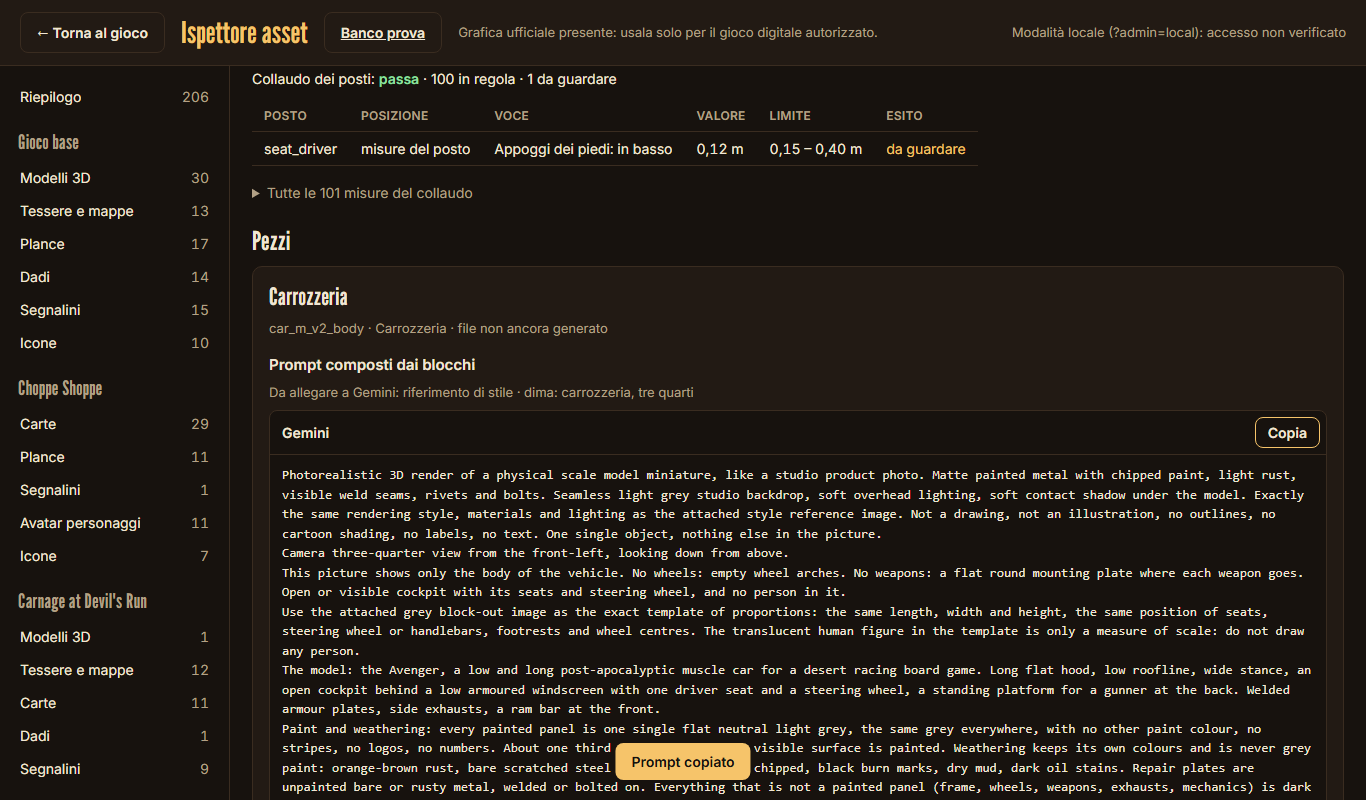
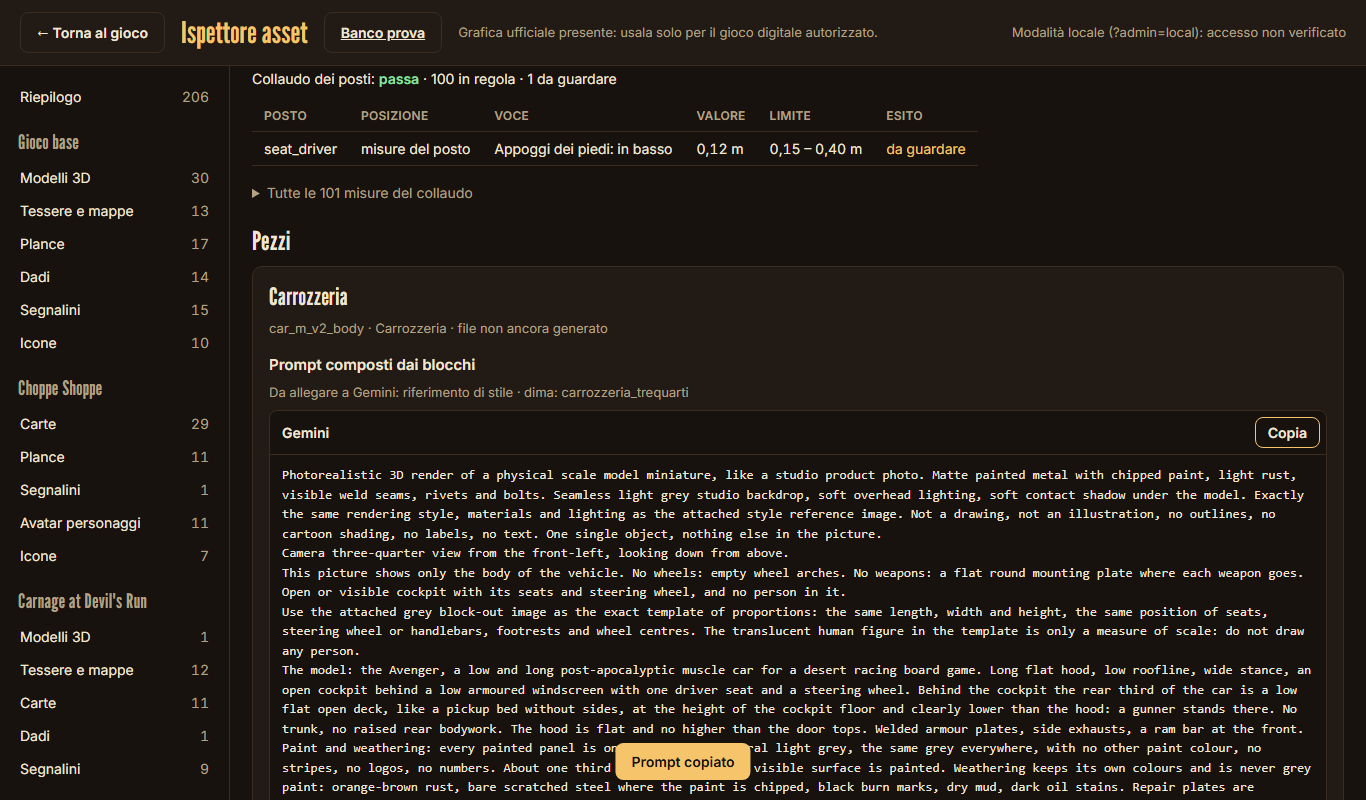
feat: riquadro "Cosa fare adesso" nella scheda di produzione, prompt per tipo di pezzo e riferimento di stile
Ogni scheda con la dima mostra i passi in ordine: scaricare le viste della dima e il riferimento di stile, poi per ogni pezzo il prompt di Gemini con gli allegati, il controllo contro la dima e il prompt di Meshy con le impostazioni.
Armi, avantreno e telaio hanno camera di lato e testo della dima propri; ruote e figure una coda di Meshy propria; la dima produce la vista di lato dell'arma e dell'avantreno.
La carrozzeria dell'Avenger chiede un pianale posteriore basso: il primo concept aveva la coda alta circa 1,05 m.

Design: design/art/modelli-strutturati.md §17, §20

Changed region(s): [[0.1845, 0.8438, 0.9531, 1.0], [0.4612, 0.4688, 0.5227, 0.5]]

diff --git a/src/admin/produzione-view.ts b/src/admin/produzione-view.ts
@@ -2,7 +2,7 @@
 // list of the models with the step each has reached, the sheet of one model with its prompts ready to
 // copy, the rules with their measures read from data/trv/modelli/regole.json, and the specification
 // itself laid out. Markup only: src/admin/admin.ts puts it on the page and answers the clicks
-// (`data-prod` opens a page, `data-copy` copies the prompt beside it, `data-glb` shows a model in 3D).
+// (`data-prod` opens a page, `data-copy` copies the prompt beside it, or its own text, `data-glb` shows a model in 3D).
 
 import DOC from '../../design/art/modelli-strutturati.md?raw';
 import { esc } from '../core/markup';
@@ -78,6 +78,37 @@ function pieceHtml(p: Piece): string {
     ${p.nota ? `<p>${esc(p.nota)}</p>` : ''}${composed}${p.usato ? usedHtml(p) : ''}${tries}</section>`;
 }
 
+/**
+ * What the user does now, in order: the pictures of the template once, then for every piece not made yet
+ * the Gemini prompt with what to attach, the look at the picture, the Meshy prompt with its settings.
+ * Nothing for a sheet with no template or with every piece made.
+ */
+const STYLE_FILES = import.meta.glob<string>('/assets/*/modelli/*.{jpg,png,webp}', { eager: true, query: '?url', import: 'default' });
+/** The style reference as a download, or its name when the file is missing. */
+function styleLink(): string {
+  const path = R.blocchi.riferimento_stile, url = path ? STYLE_FILES[`/${path}`] : undefined;
+  return url ? `<a class="btn" href="${esc(url)}" download="${esc(path!.split('/').pop()!)}">Scarica il riferimento di stile</a>` : '<span class="bad">riferimento di stile non ancora nel progetto</span>';
+}
+
+function todoHtml(s: Sheet): string {
+  const pieces = s.pezzi.filter(p => !p.file).map(p => ({ p, c: compose(p) })).filter(x => x.c);
+  if (!s.dima || !pieces.length) return '';
+  const png = (view: string): string => `<code>${esc(`${s.id}_dima_${view}.png`)}</code>`;
+  const attach = (a: string): string => a.startsWith('dima: ') ? png(a.slice(6)) : a === 'riferimento di stile' ? `<code>${esc(R.blocchi.riferimento_stile?.split('/').pop() ?? 'riferimento di stile')}</code>` : esc(a);
+  const copy = (label: string, text: string): string => `<button class="btn" data-copy="${esc(text)}">${label}</button>`;
+  const rows = pieces.map(({ p, c }) => {
+    const view = p.tipo === 'carrozzeria' || p.tipo === 'telaio' ? 'carrozzeria_lato' : c!.allegati.find(a => a.startsWith('dima: '))?.slice(6);
+    return `<li><strong>${esc(p.nome)}</strong><ol>
+      <li>${copy('Copia il prompt di Gemini', c!.gemini)} Incollalo in Gemini${c!.allegati.length ? ` e allega ${c!.allegati.map(attach).join(' e ')}` : ''}.</li>
+      ${view ? `<li>Guarda l'immagine accanto a ${png(view)}: stesse proporzioni e stesse altezze. Se non torna, rigenera in Gemini prima di andare avanti.</li>` : ''}
+      <li>${copy('Copia il prompt di Meshy', c!.meshy)} In Meshy: ${esc(R.blocchi.meshy.modo)}, con l'immagine di Gemini. Impostazioni: ${settings(c!.impostazioni)}.</li>
+      <li>Salva il GLB e di' a Claude dov'è: misure, montaggio e messa in gioco li fa lui.</li></ol></li>`;
+  }).join('');
+  return `<section class="todo" data-dima="${esc(s.id)}"><h3>Cosa fare adesso</h3><ol>
+    <li><strong>Dima</strong><ol><li><button class="btn" data-dima-png>Scarica le viste della dima (PNG)</button> Una volta sola: finiscono nella cartella dei download.</li><li>${styleLink()} Una volta sola: è l'immagine da allegare a ogni prompt di Gemini.</li></ol></li>
+    ${rows}</ol><p class="set">Un pezzo alla volta, tutti nella stessa conversazione di Gemini. Il resto della pagina è da consultare, non da usare.</p></section>`;
+}
+
 /** The template of a model: the switches of its 3D view, the pictures to download and the check of its seats. */
 function dimaHtml(s: Sheet): string {
   const dima = s.dima!, rows = checkDima(dima, classes()[s.classe], R);
@@ -126,6 +157,7 @@ function sheetHtml(s: Sheet): string {
     <p class="psum">${badge(s.stato.esito)} &nbsp; ${esc(R.regimi[s.regime] ?? s.regime)} &nbsp;·&nbsp; dal ${esc(s.stato.dal)}</p>
     <ol class="steps">${steps}</ol>
     <p>${esc(s.stato.nota)}</p>
+    ${todoHtml(s)}
     ${bad.length ? `<ul class="legend bad">${bad.map(b => `<li>${esc(b)}</li>`).join('')}</ul>` : ''}
     <h3 class="sub">Misure</h3>${table(['', ''], [...target, ...today], 'kv')}
     ${seats}
@@ -152,7 +184,10 @@ function rulesHtml(): string {
     return [esc(k.replace('_', ' ')), `≤ ${num(x.triangoli)}`, num(x.texture), `≤ ${x.materiali}`];
   });
   const blocks: [string, string][] = [['Stile (tutti i pezzi)', b.stile], ['Camera', b.camera], ['Colore e usura (pezzi tinti)', b.colore], ['Dima (pezzi con posti)', b.dima],
-    ...Object.entries(b.tipo).map(([k, v]): [string, string] => [`Tipo di pezzo: ${R.tipi[k] ?? k}`, v]), ['Meshy: coda di ogni testo', b.meshy.coda]];
+    ...Object.entries(b.tipo).map(([k, v]): [string, string] => [`Tipo di pezzo: ${R.tipi[k] ?? k}`, v]),
+    ...Object.entries(b.camera_per_tipo ?? {}).map(([k, v]): [string, string] => [`Camera: ${R.tipi[k] ?? k}`, v]),
+    ...Object.entries(b.dima_per_tipo ?? {}).map(([k, v]): [string, string] => [`Dima: ${R.tipi[k] ?? k}`, v]),
+    ['Meshy: coda di ogni testo', b.meshy.coda], ...Object.entries(b.meshy.coda_per_tipo ?? {}).map(([k, v]): [string, string] => [`Meshy, coda: ${R.tipi[k] ?? k}`, v])];
   const meshy = Object.entries(b.meshy.impostazioni).filter(([, v]) => typeof v === 'object').map(([k, v]) => [esc(R.tipi[k] ?? k), settings(v as Record<string, string | number>)]);
   return `<div class="cat-head"><h2>Regole e misure</h2></div>
     <p class="cat-note">I numeri di questa pagina sono letti da <code>data/trv/modelli/regole.json</code>, lo stesso file che usano gli script e i test. La spiegazione di ogni regola è nella specifica completa.</p>

diff --git a/src/view/dima3d.ts b/src/view/dima3d.ts
@@ -23,6 +23,8 @@ export interface DimaLook {
   ground: boolean;
   /** Which position every seat is shown in: 0 the neutral one, then its extremes in order. */
   position: number;
+  /** Only the boxes of the pieces whose name starts so (`arma`, `avantreno`), with who stands or rides at them. */
+  only?: string;
 }
 /** Everything on, the figures solid, the neutral position. */
 export const DIMA_WHOLE: DimaLook = { wheels: true, weapons: true, figure: 'solid', marks: true, ground: true, position: 0 };
@@ -78,7 +80,7 @@ export function buildDima(dima: Dima, r: Rules, look: DimaLook = DIMA_WHOLE): TH
   const flat = (color: number, more: THREE.MeshStandardMaterialParameters = {}): THREE.MeshStandardMaterial => new THREE.MeshStandardMaterial({ color, roughness: 0.9, ...more });
   const mats = { pieno: flat(GREY.body), sedile: flat(GREY.seat), comando: flat(GREY.control), vetro: flat(0xbfd6de, { transparent: true, opacity: 0.35, depthWrite: false }), weapon: flat(GREY.weapon) };
   for (const b of dima.volumi) {
-    if (b.pezzo && !look.weapons) continue;
+    if (look.only ? !b.pezzo?.startsWith(look.only) : b.pezzo && !look.weapons) continue;
     const size = [0, 1, 2].map(i => Math.abs(b.a[i] - b.da[i]));
     const mesh = new THREE.Mesh(new THREE.BoxGeometry(size[0], size[1], size[2]), b.pezzo ? mats.weapon : mats[b.uso ?? 'pieno']);
     mesh.position.set((b.da[0] + b.a[0]) / 2, (b.da[1] + b.a[1]) / 2, (b.da[2] + b.a[2]) / 2);
@@ -99,6 +101,7 @@ export function buildDima(dima: Dima, r: Rules, look: DimaLook = DIMA_WHOLE): TH
   }
   const dot = (p: number[], color: number): void => { const s = new THREE.Mesh(new THREE.SphereGeometry(0.035, 12, 8), new THREE.MeshBasicMaterial({ color })); s.position.set(p[0], p[1], p[2]); g.add(s); };
   for (const seat of dima.posti) {
+    if (look.only && seat.posa === 'sit') continue; // a piece alone: only who holds it
     const all = positions(seat), pos = all[Math.min(look.position, all.length - 1)];
     if (look.figure !== 'none') g.add(figureMesh(poseFigure(seat, pos.prese, r), r, look.figure === 'ghost'));
     if (!look.marks) continue;
@@ -121,7 +124,9 @@ export interface DimaView { name: string; blob: Blob }
 /**
  * The pictures of a template to attach to Gemini (§17): the body alone, with no wheels and no weapon
  * and the figures see-through, from the side, from above, from the front and in three quarters; then
- * the whole vehicle with its crew, in three quarters. PNG, light grey ground, 1600 × 1000.
+ * the whole vehicle with its crew, in three quarters and from the side; then every other piece alone
+ * from the side (the weapon, the motorcycle's front end), with who holds it. PNG, light grey ground,
+ * 1600 × 1000.
  */
 export async function dimaViews(dima: Dima, r: Rules): Promise<DimaView[]> {
   const W = 1600, H = 1000;
@@ -147,6 +152,8 @@ export async function dimaViews(dima: Dima, r: Rules): Promise<DimaView[]> {
   };
   const body: DimaLook = { wheels: false, weapons: false, figure: 'ghost', marks: false, ground: true, position: 0 };
   const Y = new THREE.Vector3(0, 1, 0), quarter = new THREE.Vector3(1, 0.75, -1);
+  const alone = [...new Set(dima.volumi.map(b => b.pezzo?.replace('arma_base', 'arma')).filter((x): x is string => !!x))]
+    .filter(piece => piece !== 'arma' || dima.posti.some(s => s.posa === 'stand'));
   try {
     return [
       await shot('carrozzeria_lato', body, new THREE.Vector3(0, 0, 1), Y, true),
@@ -155,6 +162,7 @@ export async function dimaViews(dima: Dima, r: Rules): Promise<DimaView[]> {
       await shot('carrozzeria_trequarti', body, quarter, Y, false),
       await shot('intera_trequarti', { ...DIMA_WHOLE, marks: false }, quarter, Y, false),
       await shot('intera_lato', { ...DIMA_WHOLE, marks: false }, new THREE.Vector3(0, 0, 1), Y, true),
+      ...await Promise.all(alone.map(piece => shot(`${piece}_lato`, { ...body, only: piece }, new THREE.Vector3(0, 0, 1), Y, true))),
     ];
   } finally {
     renderer.dispose();

diff --git a/tests/integration/admin.spec.ts b/tests/integration/admin.spec.ts
@@ -169,6 +169,18 @@ test.describe('admin inspector', () => {
     await page.locator('[data-prod="car_m_v2"]').click();
     await expect(page.locator('main h2')).toHaveText('Auto media (Avenger) ridisegnata');
     await expect(page.locator('ol.steps li.now')).toContainText('Dima');
+    // What to do now, in order: the template's pictures, then every piece with its two prompts to copy.
+    const todo = page.locator('.todo');
+    await expect(todo.locator('h3')).toHaveText('Cosa fare adesso');
+    await expect(todo.locator('[data-dima-png]')).toBeVisible();
+    await expect(todo).toContainText('car_m_v2_dima_carrozzeria_trequarti.png');
+    await expect(todo.getByRole('link', { name: 'Scarica il riferimento di stile' })).toHaveAttribute('download', 'riferimento_stile.jpg');
+    await page.setViewportSize({ width: 1366, height: 1600 });
+    await todo.screenshot({ path: `${PRODUCTION}/2b-cosa-fare-adesso.png` });
+    await page.setViewportSize({ width: 1366, height: 800 });
+    await todo.getByRole('button', { name: 'Copia il prompt di Meshy' }).first().click();
+    await expect(page.locator('#toast')).toHaveText('Prompt copiato');
+    expect(await page.evaluate(() => navigator.clipboard.readText())).toContain('low flat open rear deck');
     const body = page.locator('#pz-car_m_v2_body');
     await expect(body.locator('.prompt pre').first()).toContainText('Photorealistic 3D render');
     await expect(body.locator('.prompt pre').first()).toContainText('one single flat neutral light grey');
@@ -229,21 +241,23 @@ test.describe('admin inspector', () => {
     // The pictures to attach to Gemini come down as PNG files, the .glb as one file.
     const files: string[] = [];
     page.on('download', d => { files.push(d.suggestedFilename()); void d.saveAs(`${PRODUCTION}/dima/${d.suggestedFilename()}`); });
-    await page.locator('[data-dima-png]').click();
-    await expect.poll(() => files.length, { timeout: 30_000 }).toBe(6);
+    await page.locator('.dimabar [data-dima-png]').click();
+    await expect.poll(() => files.length, { timeout: 30_000 }).toBe(7);
     expect(files).toContain('car_m_v2_dima_carrozzeria_lato.png');
-    await page.locator('[data-dima-glb]').click();
+    expect(files).toContain('car_m_v2_dima_arma_lato.png'); // the gun alone, with who holds it
+    await page.locator('.dimabar [data-dima-glb]').click();
     await expect.poll(() => files, { timeout: 30_000 }).toContain('car_m_v2_dima.glb');
     await page.waitForTimeout(500);
 
     // Every other template of the repository passes the check of its seats and gives its pictures.
-    for (const id of ["car_s_v2", "car_l_v2", "moto_2", "big_rig_front_v2", "big_rig_mid_v2", "big_rig_rear_v2"]) {
+    // Six pictures each, and one more for every piece drawn alone: a gun somebody holds, the motorcycle's front end.
+    for (const [id, more] of [["car_s_v2", 0], ["car_l_v2", 1], ["moto_2", 1], ["big_rig_front_v2", 1], ["big_rig_mid_v2", 0], ["big_rig_rear_v2", 1]] as const) {
       const had = files.length;
       await page.locator("[data-prod='']").click();
       await page.locator(`[data-prod="${id}"]`).click();
       await expect(page.locator("#dima-check"), id).toContainText("passa");
-      await page.locator("[data-dima-png]").click();
-      await expect.poll(() => files.length, { timeout: 30_000 }).toBe(had + 6);
+      await page.locator(".dimabar [data-dima-png]").click();
+      await expect.poll(() => files.length, { timeout: 30_000 }).toBe(had + 6 + more);
     }
     await page.waitForTimeout(500);
     expect(errors).toEqual([]);

diff --git a/src/admin/produzione.ts b/src/admin/produzione.ts
@@ -109,7 +109,11 @@ export interface Rules {
   tipi: Record<string, string>;
   blocchi: {
     stile: string; camera: string; colore: string; dima: string; tipo: Record<string, string>;
-    meshy: { coda: string; modo: string; impostazioni: Record<string, Record<string, string | number> | string>; esportazione: string };
+    /** The approved concept attached to every Gemini prompt, from the project root. */
+    riferimento_stile?: string;
+    /** The camera and the template text of the kinds of piece that are not drawn like a body. */
+    camera_per_tipo?: Record<string, string>; dima_per_tipo?: Record<string, string>;
+    meshy: { coda: string; coda_per_tipo?: Record<string, string>; modo: string; impostazioni: Record<string, Record<string, string | number> | string>; esportazione: string };
     regole_gemini: string[];
   };
 }
@@ -139,7 +143,8 @@ export interface Composed { gemini: string; meshy: string; impostazioni: Record<
  * The prompts of `piece` put together from the shared blocks (§20.3), or null for a piece with no
  * part of its own (one made before the specification: its prompts are in `usato`).
  * Gemini: style, camera, kind of piece, template (a piece with seats), its own part, paint (a painted
- * piece). A figure has its own view, so no camera. Meshy: its own part, then the shared tail.
+ * piece). A figure has its own view, so no camera. Meshy: its own part, then the tail. Camera, template
+ * and tail are the ones of the kind of piece when it has its own (a gun is drawn from the side).
  */
 export function compose(piece: Piece, r: Rules = RULES): Composed | null {
   if (!piece.specifico) return null;
@@ -147,10 +152,10 @@ export function compose(piece: Piece, r: Rules = RULES): Composed | null {
   const settings = b.meshy.impostazioni[piece.tipo];
   return {
     gemini: [
-      b.stile, piece.tipo === 'figura' ? '' : b.camera, b.tipo[piece.tipo] ?? '', piece.posti ? b.dima : '',
+      b.stile, piece.tipo === 'figura' ? '' : b.camera_per_tipo?.[piece.tipo] ?? b.camera, b.tipo[piece.tipo] ?? '', piece.posti ? b.dima_per_tipo?.[piece.tipo] ?? b.dima : '',
       piece.specifico.gemini, piece.tinto ? b.colore : '',
     ].filter(Boolean).join('\n'),
-    meshy: `${piece.specifico.meshy} ${b.meshy.coda}`,
+    meshy: `${piece.specifico.meshy} ${b.meshy.coda_per_tipo?.[piece.tipo] ?? b.meshy.coda}`,
     impostazioni: { ...(typeof settings === 'object' ? settings : {}), ...(piece.triangoli ? { triangoli: piece.triangoli } : {}) },
     allegati: piece.allegati ?? [],
   };

diff --git a/tests/unit/admin/produzione.test.ts b/tests/unit/admin/produzione.test.ts
@@ -23,8 +23,20 @@ describe('compose', () => {
   });
 
   it('leaves out the template and the paint for a piece with no seats that is not painted', () => {
+    const c = compose(piece({ tipo: 'accessorio', specifico: OWN }))!;
+    expect(c.gemini).toBe([B.stile, B.camera, B.tipo.accessorio, OWN.gemini].join('\n'));
+  });
+
+  it('gives a gun its own camera and its own template text, not the ones of a body', () => {
+    const c = compose(piece({ tipo: 'arma', specifico: OWN, posti: true }))!;
+    expect(c.gemini).toBe([B.stile, B.camera_per_tipo!.arma, B.tipo.arma, B.dima_per_tipo!.arma, OWN.gemini].join('\n'));
+    expect(c.gemini).not.toContain('steering wheel');
+  });
+
+  it('ends the Meshy text of a wheel with the tail of wheels', () => {
     const c = compose(piece({ tipo: 'ruota', specifico: OWN }))!;
-    expect(c.gemini).toBe([B.stile, B.camera, B.tipo.ruota, OWN.gemini].join('\n'));
+    expect(c.meshy).toBe(`${OWN.meshy} ${B.meshy.coda_per_tipo!.ruota}`);
+    expect(c.meshy).not.toContain('rivets');
   });
 
   it('gives a figure no camera: its kind of piece has its own view', () => {

diff --git a/src/admin/admin.ts b/src/admin/admin.ts
@@ -823,11 +823,11 @@ function startInspector(who: string, onSignOut: (() => void) | null, store: Comm
       return;
     }
     if (t.closest('[data-copy]')) {
-      const text = t.closest('.prompt')!.querySelector('pre')!.textContent ?? '';
+      const text = t.closest<HTMLElement>('[data-copy]')!.dataset.copy || (t.closest('.prompt')?.querySelector('pre')?.textContent ?? '');
       void navigator.clipboard.writeText(text).then(() => toast('Prompt copiato'), () => toast('Copia non riuscita: seleziona il testo a mano'));
       return;
     }
-    const bar = t.closest<HTMLElement>('.dimabar');
+    const bar = t.closest<HTMLElement>('.dimabar, .todo');
     if (bar && t.closest('[data-dima-show]')) { showDima(bar); $('p-3d').scrollIntoView({ block: 'nearest' }); return; }
     if (bar && t.closest('[data-dima-png], [data-dima-glb]')) {
       const id = bar.dataset.dima!, dima = sheetById(id)!.dima!, btn = t.closest<HTMLButtonElement>('button')!;

diff --git a/admin.html b/admin.html
@@ -171,6 +171,9 @@
   .dimabar label { display: inline-flex; align-items: center; gap: 6px; color: var(--muted); }
   .dimabar select { background: var(--bg); color: var(--ink); border: 1px solid var(--line); border-radius: 6px; padding: 4px 8px; font: inherit; }
   .dimabar .btn { padding: 6px 14px; }
+  .todo { border: 2px solid var(--accent); border-radius: 10px; padding: 4px 18px 10px; margin: 12px 0 18px; background: var(--surface2); }
+  .todo ol { padding-left: 22px; } .todo > ol > li { margin: 10px 0; } .todo ol ol li { margin: 6px 0; line-height: 1.9; }
+  .todo .btn { padding: 4px 12px; margin-right: 6px; text-decoration: none; display: inline-block; }
   .prod .good { color: #8fe0a0; font-weight: 600; }
   .prod .note { color: var(--accent); }
   .prod details.allrows { margin: 0 0 16px; }
